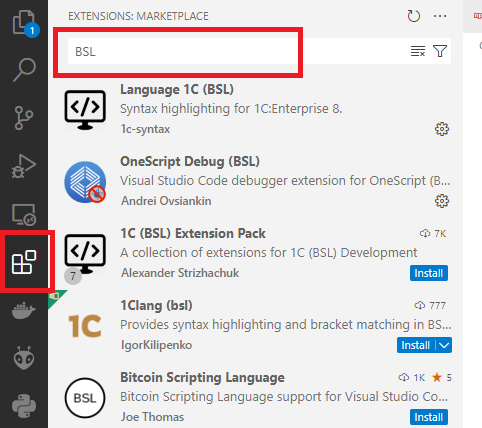
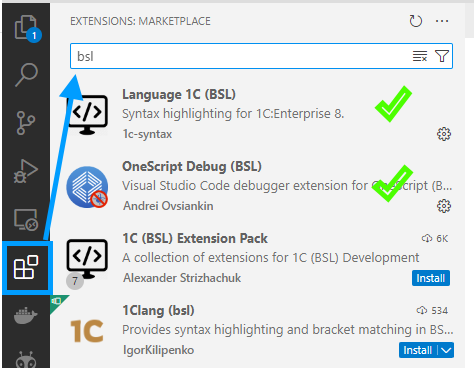
Дописал еще несколько разделов

diff --git a/docs/learn/enterprise.md b/docs/learn/enterprise.md
@@ -1,0 +1,36 @@
+# Документы и полезная информация для организаций и учреждений
+
+## Применимость в корпоративной среде
+
+1Script популярный открытый движок, который используется в корпоративной среде, в т.ч. в крупных компаниях, корпорациях, банках. Авторам известно, что он используется как минимум:
+
+* В операторе сотовой связи из "большой тройки"
+* федеральном банке из ТОП-5
+* федеральной компании со словом "Газ" в названии
+* судостроении
+* и много где еще
+
+На данной странице публикуются материалы, которые вы можете найти материалы, помогающие в работе с корпоративными службами при внедрении 1Script
+
+## Материалы по информационной безопасности
+
+Типовые требования служб ИБ к информационным системам
+
+|Требование|Реализация в 1Script|
+|-|-|
+|Методы оповещения пользователей об уязвимостях решения и рекомендациях по их устранению.|Пользователи уведомляются в канале https://t.me/oscript_library. Информация о критичных уязвимостях показывается на [главной странице сайта](https://oscript.io) |
+|Политика устранения уязвимостей|Обнаруживаемые уязвимости устраняются в приоритетном порядке, как только авторы уязвимых библиотек, фреймворков выпускают исправление. Как правило, это 2-3 дня после появления исправления. Уязвимости в самом движке так же исправляются в приоритетном порядке. Гарантии по срокам исправления доступны только на базе платной поддержки.|
+|Политика обновления используемых библиотек, платформ|Движок основан на последних актуальных релизах .NET Framework и .NET. При выходе LTS-релизов осуществляется переход на них в плановом порядке|
+|Отсутствие недокументированных возможностей (НДВ)|НДВ отсутствуют, исходный код открыт|
+|Отсутствие неотключаемых функций взаимодействия с Интернет|Неотключаемые функции отсутствуют, при блокировании доступа в Интернет работоспособность 1Script сохраняется. Перестанут работать только попытки пользователя явно выйти в интернет средствами программы.|
+|Параметры резервного копирования, перечень компонентов, подлежащих резервному копированию.|Неприменимо, т.к. отсутствует база данных и какое-либо хранимое состояние, требующее резервного копирования.|
+|Релизная политика, сроки выпуска релизов.|Стабильные номерные релизы выпускаются в среднем каждые 3-4 месяца. Версии с долгосрочной поддержкой (LTS) выпускаются каждые 6-8 месяцев, ошибки в них исправляются в течение года с момента выпуска. Релизы выпускаются по мере накопления полезной функциональности или исправления ошибок. Кроме того, на сайте публикуются ночные сборки. В них включены самые свежие изменения. Можно сказать, что публикация исправлений происходит немедленно после внесения исправления в код.|
+|Change Logs и описания изменений.|К каждому релизу прилагается Changelog, кроме того, за счет открытости кода, все изменения видны в логе коммитов git. Увидеть changelog каждой версии можно на странице версии (см. "Предыдущие версии" страницы скачивания релизов)|
+
+## Информационная поддержка
+
+Мы будем признательны, если Ваша компания разрешит нам опубликовать на сайте информацию о том, что Вы применяете 1Script. Нам доверяют многие крупные компании, но мы не вели с ними переговоров об использовании нами брендов на сайте, поэтому не называем имен. Если вы хотите дать нам такое разрешение или знаете, к кому в Вашей компании можно обратиться за таким разрешением, [напишите нам, пожалуйста](https://t.me/oscript_library).
+
+## Платная поддержка
+
+У команды разработчиков на данный момент отсутствует функция платной поддержки, т.к. за таковой никто не обращался, но мы открыты к предложениям. Напишите в Telegram-канал https://t.me/oscript_library или создайте [issue на github](https://github.com/EvilBeaver/OneScript/issues).

diff --git a/docs/learn/infra.md b/docs/learn/infra.md
@@ -1,0 +1,43 @@
+# Устройство и инфраструктура
+
+## Архитектура
+
+1Script написан на языке C# и работает на платформе .NET Актуальная версия платформы - NET6. По мере необходимости, версия платформы поднимается до актуальных.
+
+::: info
+Предыдущие версии 1Script за номером 1.x используют версию .NET Framework 4.8 на Windows и Mono 6.12 на Linux
+:::
+
+1Script поставляется в двух вариантах дистрибутивов:
+
+* SCD (self-contained-deployment) - самостоятельный дистрибутив для конкретной операционной системы
+* FDD (framework-dependent-deployment) - универсальный дистрибутив, не зависящий от ОС, но требующий установки .NET на целевой машине
+
+Для каждого сценария использования могут подходить разные варианты поставки, решать вам.
+
+Если вам нужно "просто 1Скрипт" ставьте SCD для вашей ОС. Если вы, например, собираете docker-образ, в котором уже есть .NET нужной версии, то полный дистрибутив SCD вам не нужен, и вам будет достаточно маленького легковесного FDD.
+
+Также, вам будет достаточно FDD, если у вас на машине уже стоит .NET нужной версии.
+
+### Принцип работы
+
+1Script исполняется посредством стековой машины с собственным байт-кодом. Также существует специальный режим компиляции `native`, который компилирует код 1С в байткод непосредственно машины dotnet. Этот режим является экспериментальным и несовместим по поведению с языком 1С (код должен быть написан в строго-типизированном стиле). Документирование режима native пока в разработке.
+
+Виртуальная машина способна подключать внутрь себя сторонние файлы скриптов, на этом основана модульность исполняющей среды и организованы библиотеки.
+
+## Хаб пакетов
+
+Сообщество поддерживает [облачное хранилище повторно используемых библиотек](https://hub.oscript.io), называемое "Хаб пакетов". В это хранилище разработчики публикуют свои решения, которые так или иначе могут использоваться повторно всеми желающими. Хаб пакетов имеет несколько зеркал в случае выхода из строя основного сайта.
+
+Пакеты распространяются в виде файлов с расширением `.ospx`, которые технически представляют собой zip-архивы специального формата. Упаковка решения в архив `.ospx` выполняется утилитой opm (OneScript Package Manager). В дальнейшем, опубликованный пакет с помощью той же утилиты устанавливается на машины конечных пользователей. Подробнее об этом механизме можно почитать в разделе ["Библиотеки"](/learn/libraries)
+
+## Основной сайт
+
+Сайт, на котором вы сейчас находитесь имеет открытые исходные коды и может так же дорабатываться сообществом (например, Вами).
+Инфраструктура сайта построена вокруг docker-compose.
+
+## Информационная безопасность
+
+Проект имеет открытый исходный код и мы стремимся к тому, чтобы он мог беспрепятственно использоваться в различных организациях и государственных учреждениях. Мы стараемся идти на встречу запросам от корпоративного сектора, если они у вас есть, вы можете их задать [напрямую авторам](https://t.me/oscript_library).
+
+Также мы подготовили [ответы на наиболее часто встречающиеся вопросы](/learn/enterprise) от отделов информ.безопасности, вы можете предоставить эту информацию вашей службе infosec.

diff --git a/docs/learn/debug.md b/docs/learn/debug.md
@@ -1,0 +1,63 @@
+# Отладка
+
+Для отладки применяется стандартный отладчик OneScript для Visual Studio Code.
+
+## Подготовка
+
+Если у вас уже установлены VS Code, плагин языка 1С и отладчик OneScript, пропустите раздел "Подготовка".
+
+### Установка Visual Studio Code и плагинов
+
+Скачайте среду разработки с [сайта производителя](https://code.visualstudio.com/download) и установите. Затем, запустите и нажмите в ней `Ctrl+Shift+X` чтобы перейти к окну установки расширений.
+
+Вам потребуется установить 2 расширения: поддержку языка 1С и отладчик OneScript. В окне поиска наберите bsl и установите расширения, показанные на картинке.
+
+![](/images/vscode-plugins.png)
+
+### Создание папки с решением
+
+Для начала нам понадобится место, где мы будем писать наш проект. Ознакомьтесь с разделом [Новый проект](/learn/new-project), чтобы его подготовить.
+
+## Конфигурация запуска
+
+Для отладки нам потребуется `конфигурация запуска`. Конфигураций запуска может быть несколько, вы сами создаете варианты запуска с разными параметрами командной строки, с разными переменными окружения и т.п.
+
+Запустите отладку и выберите пункт `Отладка 1Script`. IDE создаст файл `.vscode/launch.json` и откроет его в редакторе. Если что-то не сработает (а такое бывает), создайте в корне вашего проекта каталог `.vscode` (обратите внимание на точку в имени) и в нем файл `launch.json`, откройте его.
+
+![](/images/vscode-launch.png)
+
+В файле launch.json можно задать несколько так называемых "профилей" отладки - наборов комбинаций параметров, под которым будет запускаться отлаживаемое приложение.
+
+Каждый профиль отладки представляет собой настройку запуска отлаживаемого приложения, его аргументы командной строки и версию интерпретатора 1script, которая будет выполнять приложение.
+
+Подробное описание каждого параметра выводится при наведении мышки на опцию в файле launch.json.
+
+```json
+{
+    "name": "Отладка 1Script",
+    "type": "oscript",
+    "request": "launch",
+    "cwd": "${workspaceRoot}/src",
+    "program": "my-program.os",
+    "args": ["arg1", "arg2"],
+    "env": {
+        "OSCRIPT_CONFIG": "lib.system=D:/myOsLibraries",
+        "JAVA_HOME": "D:/MyJava/JDK_29_Full"
+    },
+    "debugPort": 2801
+}
+```
+
+::: warning ВНИМАНИЕ
+Если по какой-либо причине на вашей машине занят порт `2801` - укажите в свойстве `debugPort` любой другой свободный порт.
+:::
+
+## Старт отладки
+
+После того, как конфигурация запуска выбрана в окне VS Code можно нажать кнопку F5 и среда разработки запустит отладку, согласно настроенной конфигурации.
+
+Если взять пример конфига, приведенный выше, то будет запущен для отладки файл `my-program-os`, рабочим каталогом запущенного процесса будет каталог `${workspaceRoot}/src`, где ${workspaceRoot} это корень папки с проектом.
+
+Далее, в запущенный процесс будут переданы 2 аргумента командной строки: "arg1" и "arg2", при этом процесс получит две переменные окружения OSCRIPT_CONFIG и JAVA_HOME.
+
+Создавая таким образом разные варианты запуска, вы можете отлаживать различные сценарии вашей программы.

diff --git a/docs/learn/libraries.md b/docs/learn/libraries.md
@@ -1,0 +1,1 @@
+# Библиотеки
